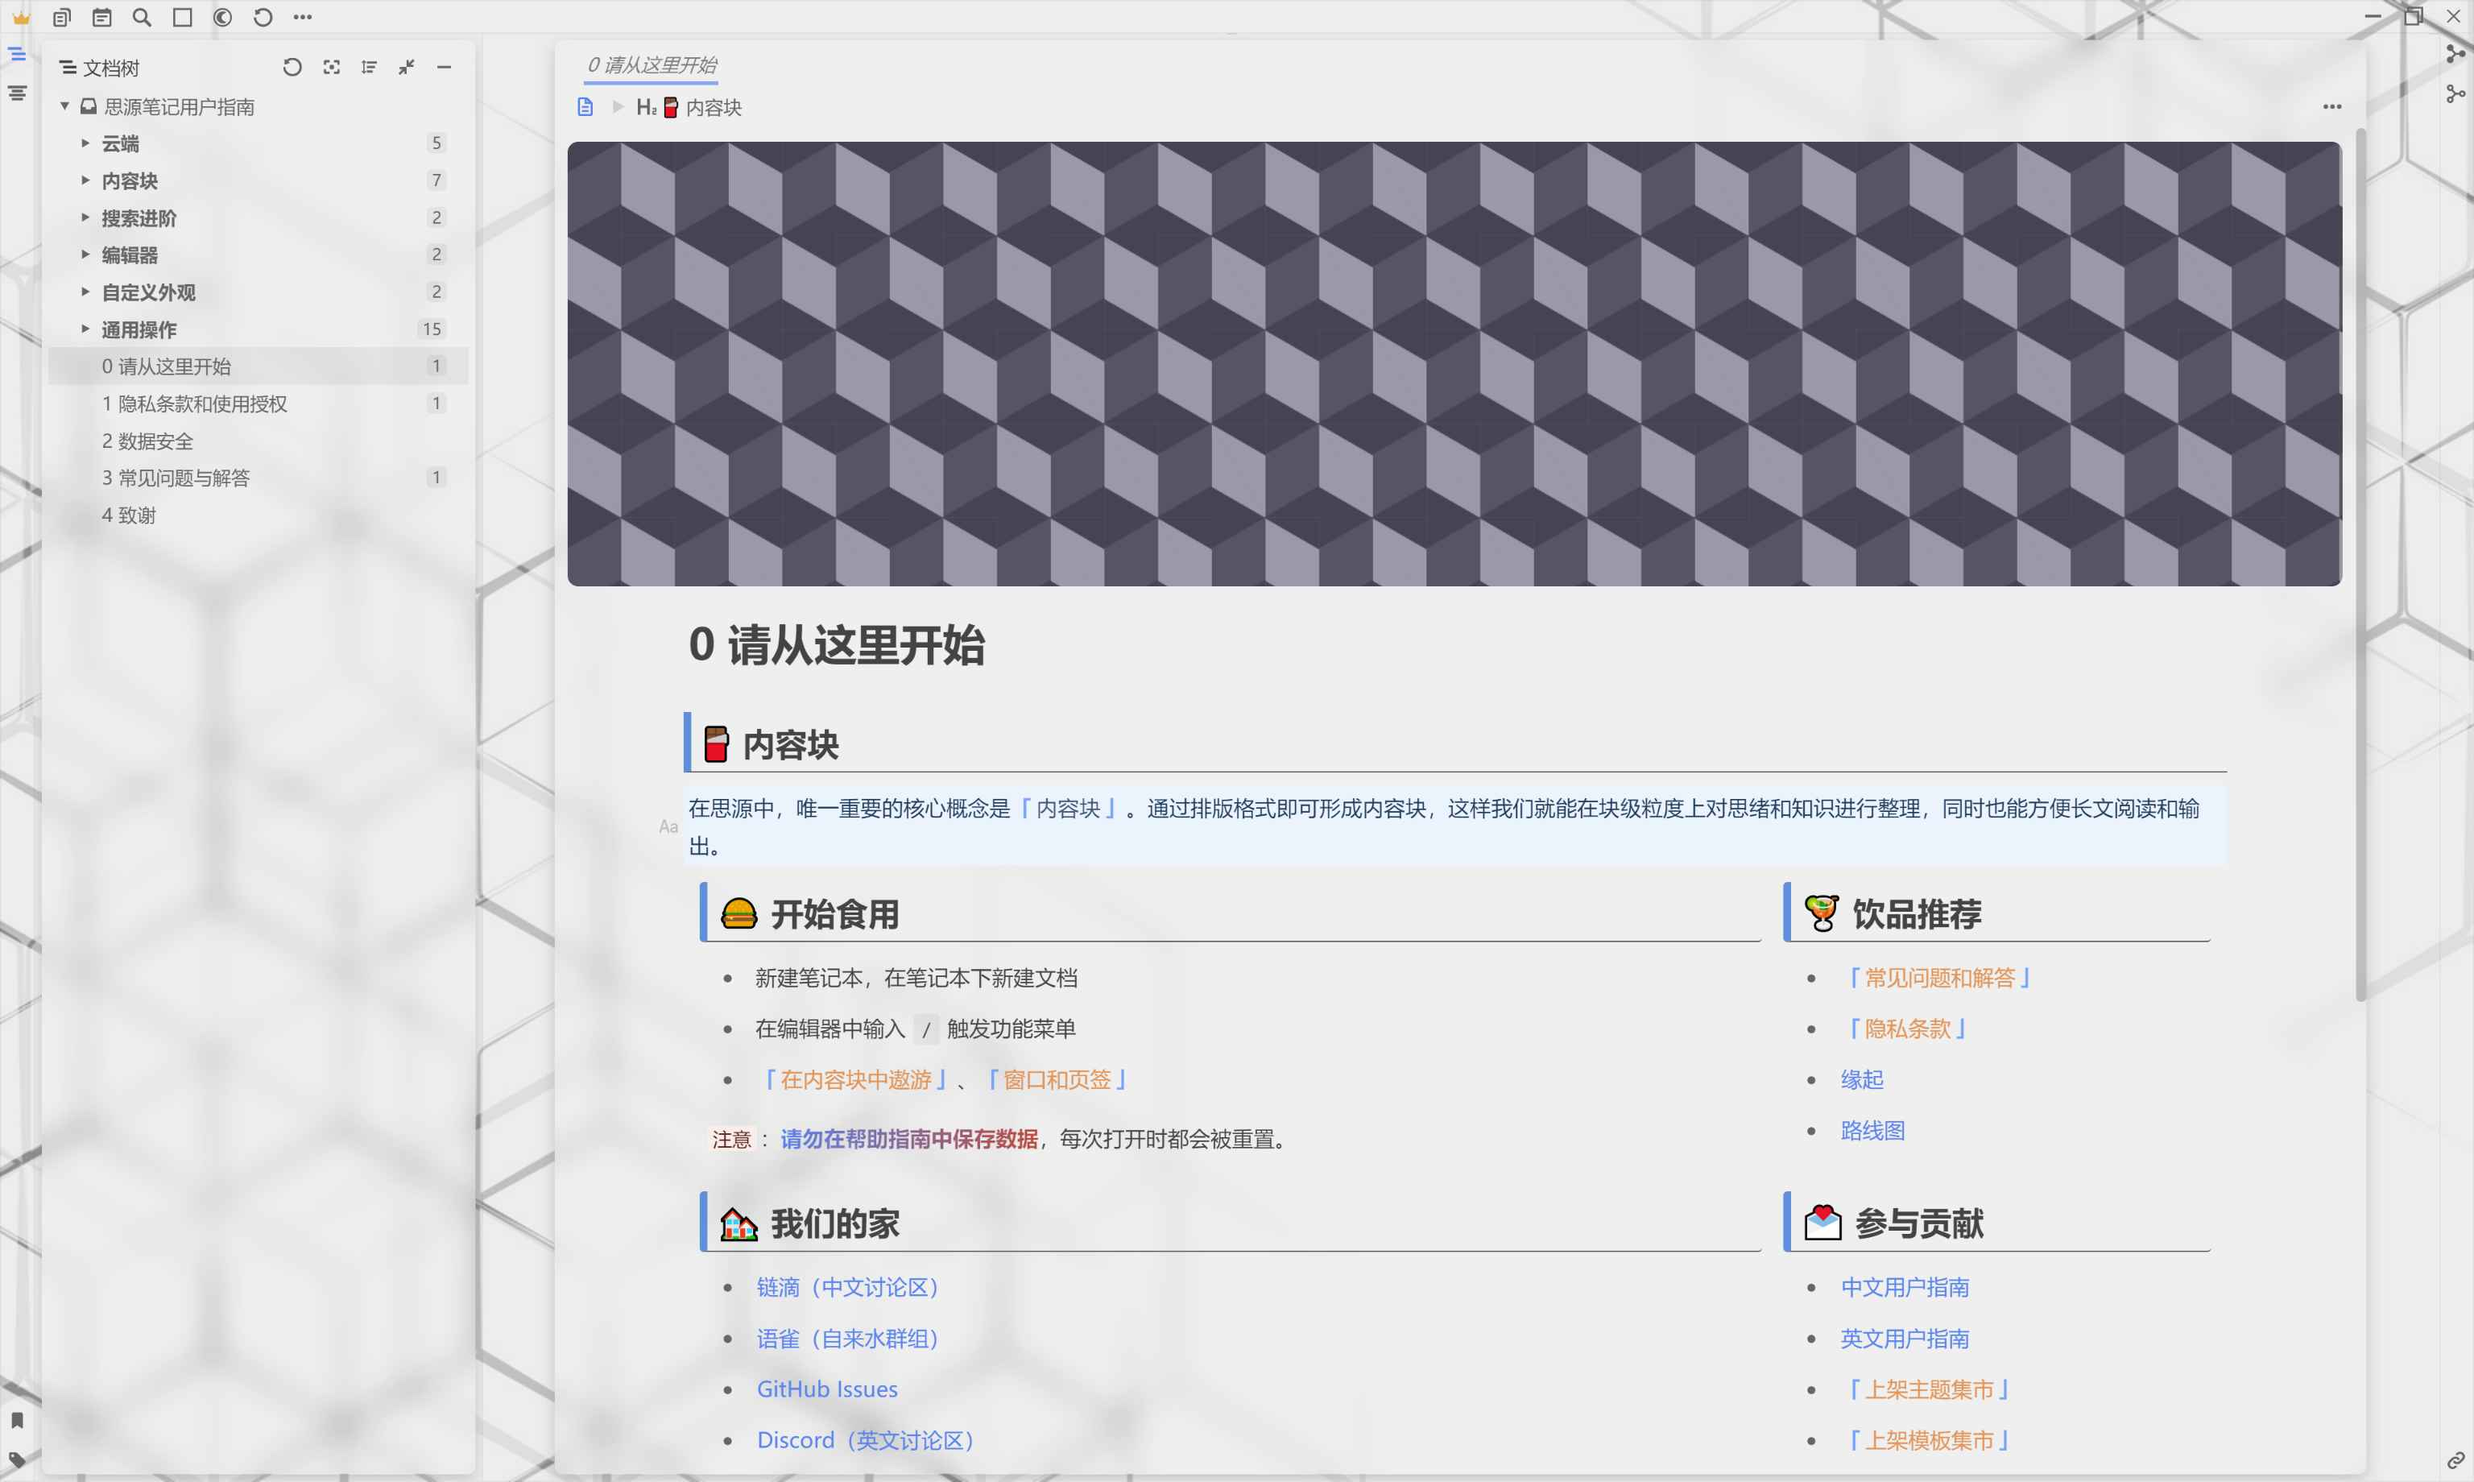
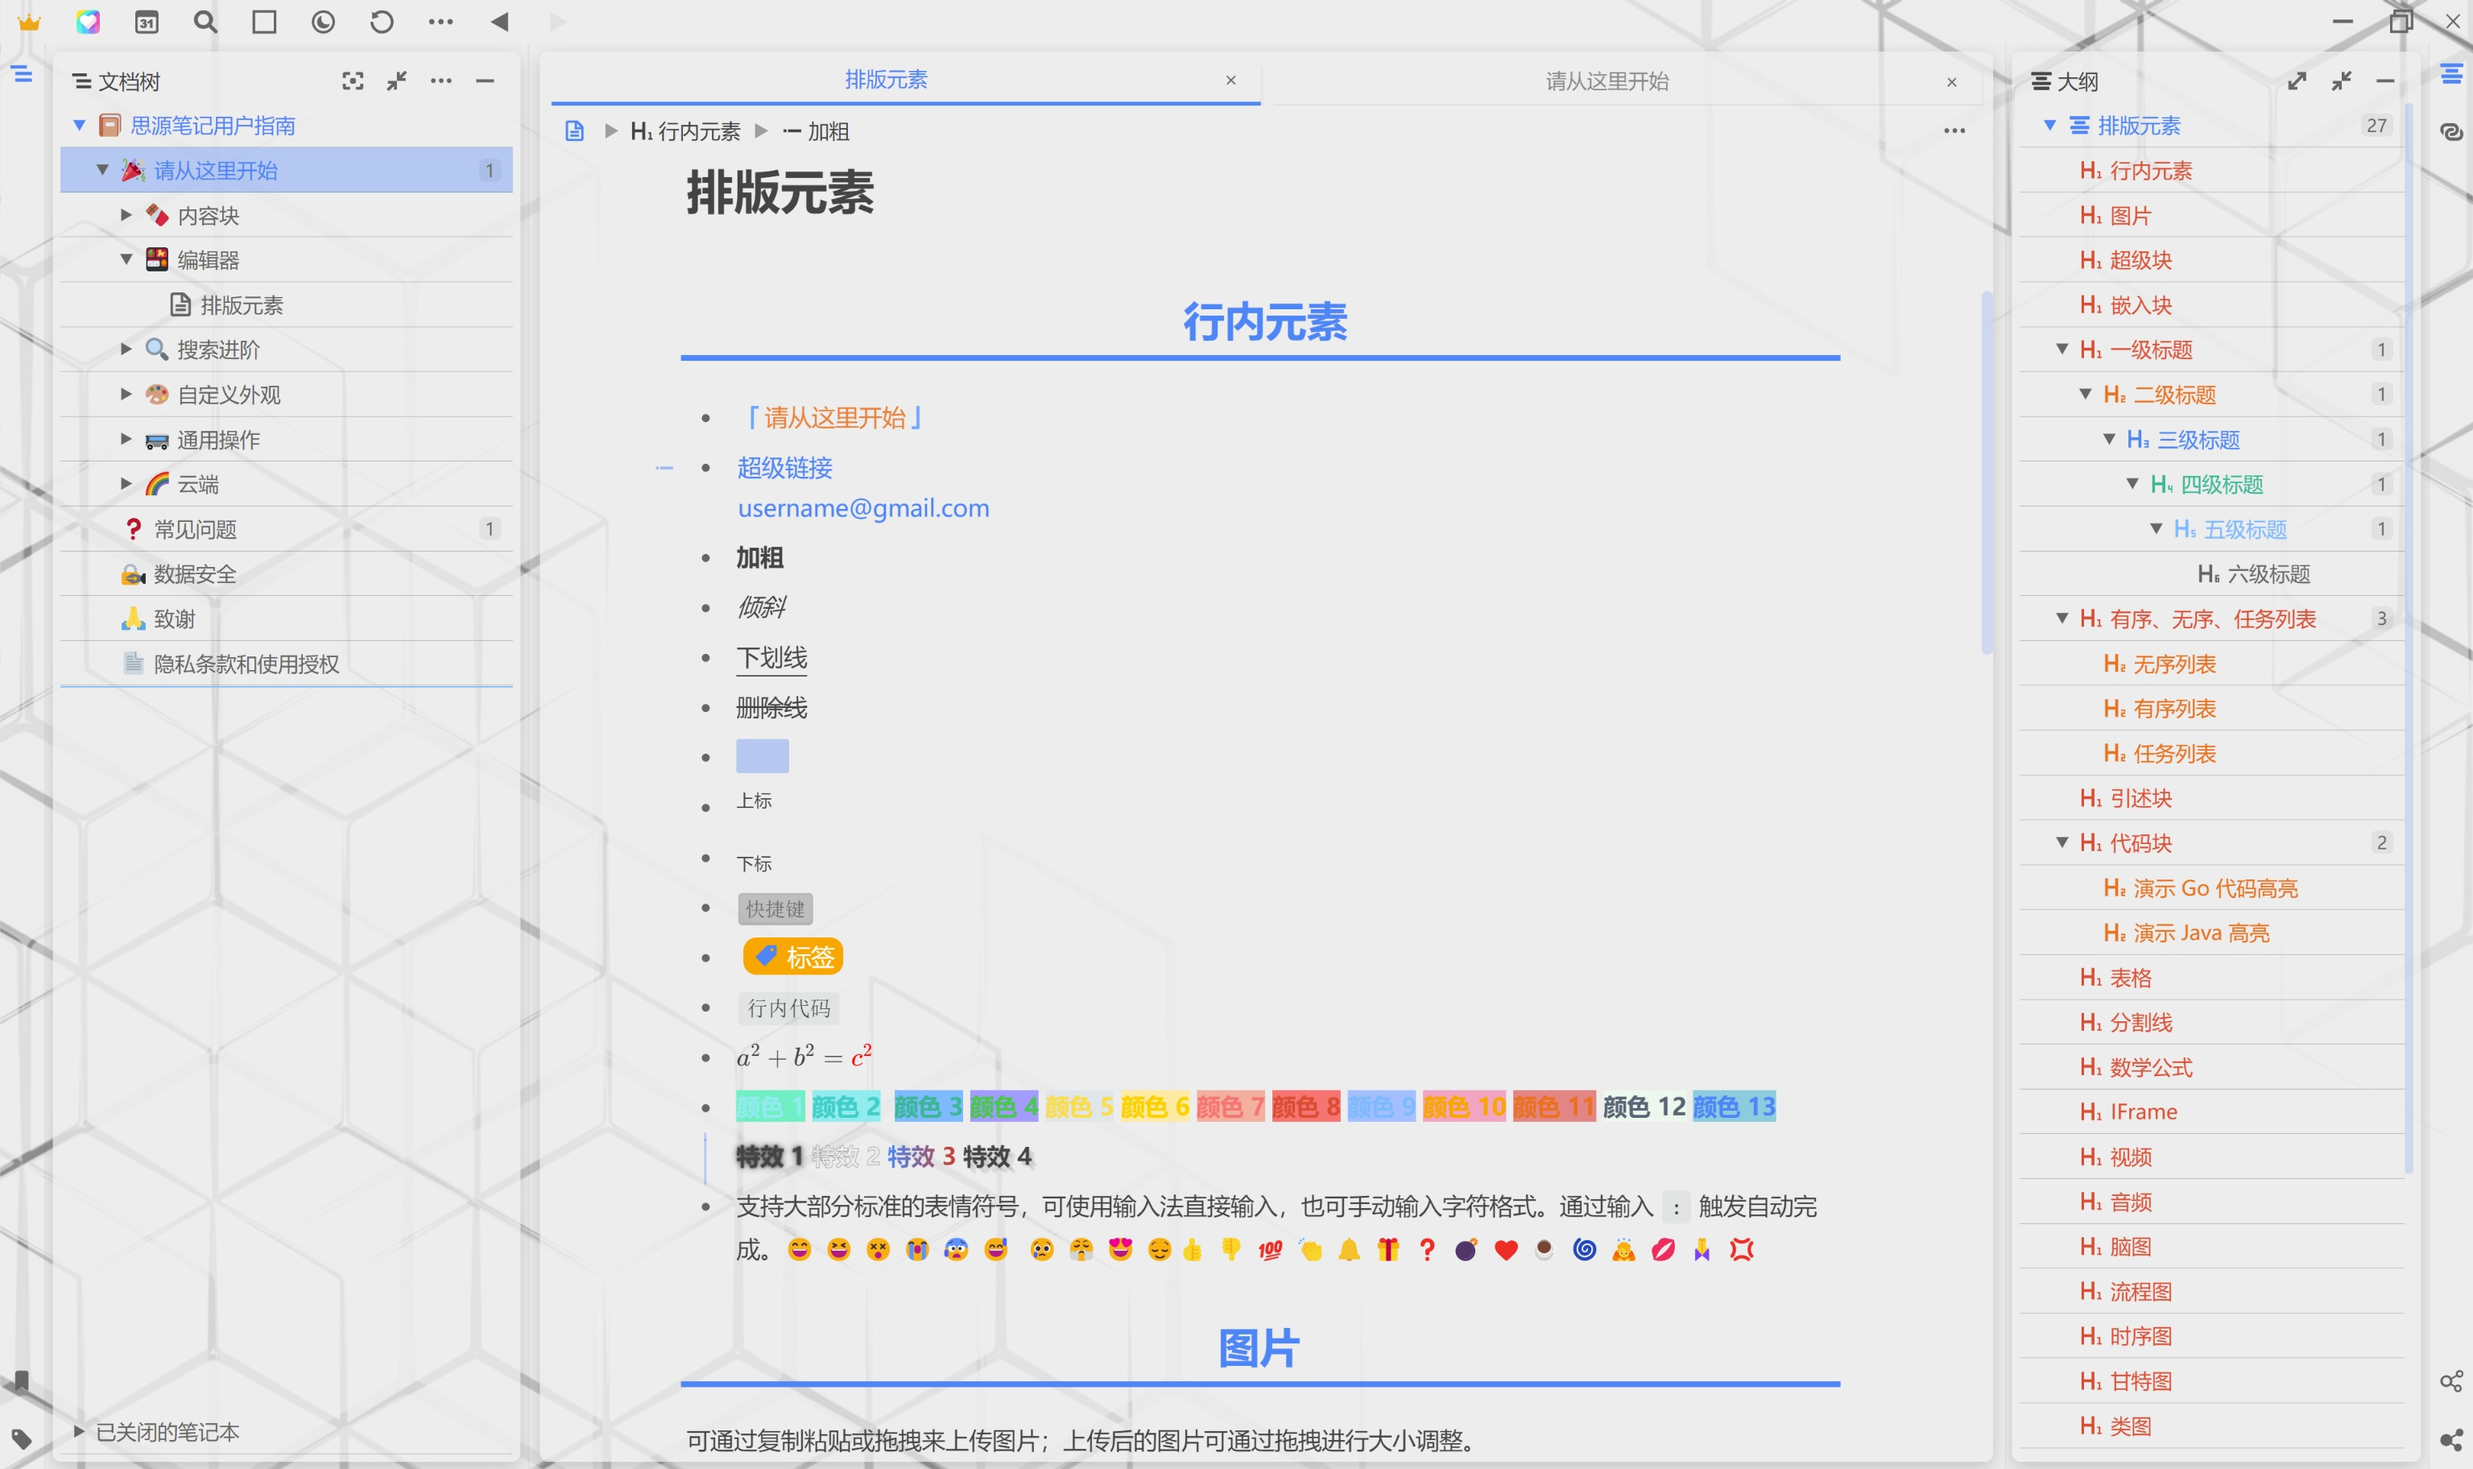
Add files via upload

diff --git a/theme.css b/theme.css
@@ -5,9 +5,9 @@
 /******* 亮色主题配色模板 **********/
 :root {
     /* 主色 */
-    --b3-theme-primary:       #4285f4; /* 主色调，一般用在按钮等其他需要醒目的地方 */
+    --b3-theme-primary:       rgb(66, 133, 244); /* 主色调，一般用在按钮等其他需要醒目的地方 */
     --b3-theme-primary-light: rgba(4, 66, 165, 0.87);
-    --b3-theme-primary-lighter: rgba(66, 133, 244, 0.5);
+    --b3-theme-primary-lighter: rgba(66, 133, 244, 0.35);
     --b3-theme-primary-lightest: rgba(66, 133, 244, 0.2);
     --b3-theme-secondary: #f3a92f;
     --b3-theme-background: #FFFFFF; /* 背景色，主要用于编辑器背景 */
@@ -32,7 +32,7 @@
     --b3-border-color: rgba(0, 0, 0, .05);
 
     /* 滚动条 */
-    --b3-scroll-color: rgba(0,0,0,0.15);
+    --b3-scroll-color: var(--b3-theme-primary-lightest);
 
     /* 列表 */
     --b3-list-hover:   rgba(0, 0, 0, .05);
@@ -218,79 +218,87 @@ option {
   #dockTop    { border-bottom: var(--dock-border); }
   #dockBottom { border-top:    var(--dock-border); }
   
-  /* 边栏列表项 */
-  .b3-list-item, .b3-list-item__text{
-    color: var(--b3-theme-on-surface);
-  }
-  .b3-list--files .b3-list-item--focus:not(.dragover):not(.dragover__top):not(.dragover__bottom) {
-    background-color: var(--b3-theme-primary-lighter) !important;
-  }
-  
-  .b3-list--background .b3-list-item--focus {
-    background-color: var(--b3-theme-primary-lighter) !important;
-  }
+ /* 边栏列表项 */
+.b3-list-item, .b3-list-item__text{
+  color: var(--b3-theme-on-surface);
+}
 
-  .b3-list--files .b3-list-item:hover, .b3-list--background .b3-list-item:hover {
-    background-color: var(--b3-theme-primary-lightest);
-  }
-  
-  .b3-list--background .b3-list-item:hover:not(.b3-list-item--focus) {
-    background-color: var(--b3-theme-primary-lightest);
-  
-  }
+.b3-list--background .b3-list-item--focus:not(.dragover):not(.dragover__top):not(.dragover__bottom) {
+  background-color: var(--b3-theme-primary-lighter) !important;
+}
 
-  .file-tree [data-type="navigation-file"] .b3-list-item__text{
-    opacity: 1;
-  }
+.b3-list--background .b3-list-item--focus {
+  background-color: var(--b3-theme-primary-lighter) !important;
+}
 
-  .b3-list--background {
-    border-bottom: 0.5px solid var(--b3-font-color10);
-  }
+.b3-list--background .b3-list-item:hover {
+  background-color: var(--b3-theme-primary-lightest);
+}
 
-  .b3-list-item {
-    border-bottom: 0.5px solid rgba(0, 0, 0, 0.15);
-   }
+.b3-list--background .b3-list-item:hover:not(.b3-list-item--focus) {
+  background-color: var(--b3-theme-primary-lightest);
+}
+
+.file-tree .b3-list--background .b3-list-item--focus .b3-list-item__text{
+  color:var(--b3-font-color10);
+}
+
+/**字体清晰**/
+.file-tree [data-type="navigation-file"] .b3-list-item__text{
+  opacity: 1;
+}
+
+/**笔记本下划线**/
+.b3-list--background {
+  border-bottom: 1px solid var(--b3-font-color9);
+}
+
+/**笔记文档下划线**/
+.b3-list-item {
+  border-bottom: 0.5px solid rgba(0, 0, 0, 0.2);
+}
+
+/**笔记本名称加强**/
+ .b3-list--background [data-type="navigation-root"] .b3-list-item__text{
+     color: var(--b3-theme-primary) !important;
+ }
+ .b3-list--background [data-type="navigation-root"] .b3-list-item__toggle {
+   color: var(--b3-theme-primary);
+ }
+
 
 /*************大纲代码部分********/
-.b3-list--files [data-type="navigation-root"] .b3-list-item__text,
-.b3-list--files [data-type="navigation-root"]{
-    font-weight: 600;
-    color: var(--b3-theme-primary) !important;
-}
-.b3-list--files [data-type="navigation-root"] .b3-list-item__toggle {
-  color: var(--b3-theme-primary);
-}
-
-/* 文档标题 */
 .file-tree ul.b3-list.b3-list--background [data-type="NodeDocument"][data-treetype="outline"] .b3-list-item__text,
+.file-tree ul.b3-list.b3-list--background [data-type="NodeDocument"][data-treetype="outline"] .b3-list-item__toggle,
 .file-tree ul.b3-list.b3-list--background [data-type="NodeDocument"][data-treetype="outline"]{
-    font-weight: 600;
+    color: var(--b3-theme-primary) !important;
+    font-weight: 400 !important;
 }
 
 .file-tree ul.b3-list.b3-list--background [data-subtype="h1"] .b3-list-item__text,
 .file-tree ul.b3-list.b3-list--background [data-subtype="h1"]{
-    color:var(--b3-font-color8);
+    color:var(--b3-font-color8)!important;
 }
 .file-tree ul.b3-list.b3-list--background [data-subtype="h2"] .b3-list-item__text,
 .file-tree ul.b3-list.b3-list--background [data-subtype="h2"]{
-    color:var(--b3-font-color10);
+    color:var(--b3-font-color12)!important;
 }
 .file-tree ul.b3-list.b3-list--background [data-subtype="h3"] .b3-list-item__text,
 .file-tree ul.b3-list.b3-list--background [data-subtype="h3"] {
-    color:var(--b3-font-color12);
+    color:var(--b3-font-color10)!important;
 }
 .file-tree ul.b3-list.b3-list--background [data-subtype="h4"] .b3-list-item__text,
 .file-tree ul.b3-list.b3-list--background [data-subtype="h4"] {
-    color:var(--b3-font-color7);
+    color:var(--b3-font-color3)!important;
 }
 .file-tree ul.b3-list.b3-list--background [data-subtype="h5"] .b3-list-item__text,
 .file-tree ul.b3-list.b3-list--background [data-subtype="h5"] {
-    color:var(--b3-font-color3);
+    color:var(--b3-font-color9)!important;
 }
 
 
 .file-tree ul.b3-list.b3-list--background  [data-treetype="outline"]{
-  border-bottom: 0.5px solid rgba(0, 0, 0, 0.15);
+  border-bottom: 0.5px solid rgba(0, 0, 0, 0.2);
 }
 /*************大纲的代码部分结束*********/
 
@@ -305,7 +313,7 @@ option {
     background-color: var(--column-border);
   }
 
-/*********实验功能：毛玻璃效果 代码开始 *********/
+
 body{
     background-color: white;
     background-image: var(--background-image);
@@ -316,14 +324,6 @@ body{
   .toolbar,#dockLeft, #dockRight, #dockTop, #dockBottom{
     background: transparent;
   }
-  /*是否需要隐藏工具栏*
-    border: none;
-    opacity: 0;
-    transition: opacity 400ms ease 0s;
-  }
-  .toolbar:hover,#dockLeft:hover, #dockRight:hover, #dockTop:hover, #dockBottom:hover{
-    opacity: 1;
-  }*/
   
   .fn__flex-1.fn__flex [data-type='wnd']{
     background: transparent; 
@@ -513,6 +513,7 @@ body{
   .b3-menu__separator{
     height: 1px;
     margin: 6px 0;
+    background-color:var(--b3-font-color10);
   }
   
 
@@ -673,13 +674,15 @@ body{
 
   .layout-tab-bar .item--focus .item__text{
     opacity: 1;
+    color: var(--b3-font-color10);
   }
+  
   .layout-tab-bar .item__text{
     border-bottom: 3px solid transparent;
     padding: 2px;
     text-overflow:ellipsis;
     opacity: 0.6;
-      color: var(--b3-theme-on-background);
+    color: var(--b3-theme-on-background);
   }
   .layout-tab-bar .item--focus {
   border-bottom: 3px solid !important;
@@ -711,7 +714,7 @@ body{
   /**** 块图标 ****/
   /* 减淡块图标颜色 */
   .protyle-gutters svg {
-    color: var(--b3-scroll-color);
+    color: rgba(66, 133, 244,0.5);
   }
   /* 增加块图标悬浮时背景色 */
   .protyle-gutters button:hover svg{
@@ -1095,7 +1098,7 @@ background-position: -20px 100%;
   margin-bottom: 15px;
   padding-left: 7px;
   border-bottom: 3px double var(--b3-font-color10) !important;
-  color:var(--b3-theme-primary);
+  color:var(--b3-font-color12);
   }
 
 .protyle-wysiwyg [data-node-id].h3 ,.b3-typography h3{
@@ -1108,7 +1111,7 @@ background-position: -20px 100%;
   margin-top: 10px;
   margin-bottom: 10px;
   padding-left: 7px;
-  color:var(--b3-theme-primary);
+  color:var(--b3-font-color10);
 }
 
 
@@ -1122,10 +1125,12 @@ background-position: -20px 100%;
   margin-top: 5px;
   margin-bottom: 5px;
   padding-left: 7px;
+  color:var(--b3-font-color3);
 }
 
 .protyle-wysiwyg [data-node-id].h5 ,.b3-typography h5{
   font-size: 1.1em;
+  color:var(--b3-font-color9);
 }
 
 .protyle-wysiwyg [data-node-id].h6,.b3-typography h6 {
@@ -1214,7 +1219,7 @@ background-position: -20px 100%;
 }
 /* 首行背景色 */
 .protyle table thead tr {
-  background-color: rgba(66, 133, 244, 0.1) !important;
+  background-color: rgba(66, 133, 244,0.1) !important;
 }
 /* 添加行悬浮时背景色 */
 .b3-typography table tr:hover, .protyle-wysiwyg table tr:hover{

diff --git a/README.md b/README.md
@@ -1,14 +1,23 @@
 # 介绍
+
 该主题参考了集市中前期包括langzhou、VIWZ、Achuan2各位大大的样式，各位主题作者同样细心解答了我的问题，万分感谢<br>
 推荐码：ildAxIu，欢迎上车~
 
 ## 更新历史
-之前比较懒....一直没有记录更新历史
+
+之前比较懒....没有记录更新历史
+
+### 2022.1.5
+
+添加了菜单线条、页签颜色<br>调整大纲、文档树样式颜色<br>侧边栏调整
+
 ### 2022.1.4
+
 不再使用毛玻璃效果<br>
 优化表格线条颜色<br>
 PDF浏览问题
 
 ### 2022.1.2
+
 添加了文档树分割线<br>
 尽可能删减毛玻璃效果，提升性能
